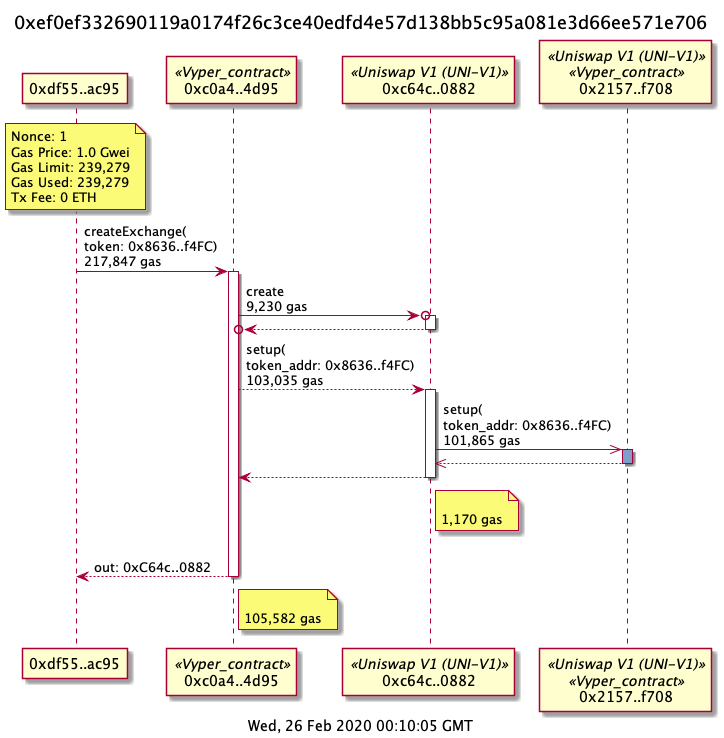
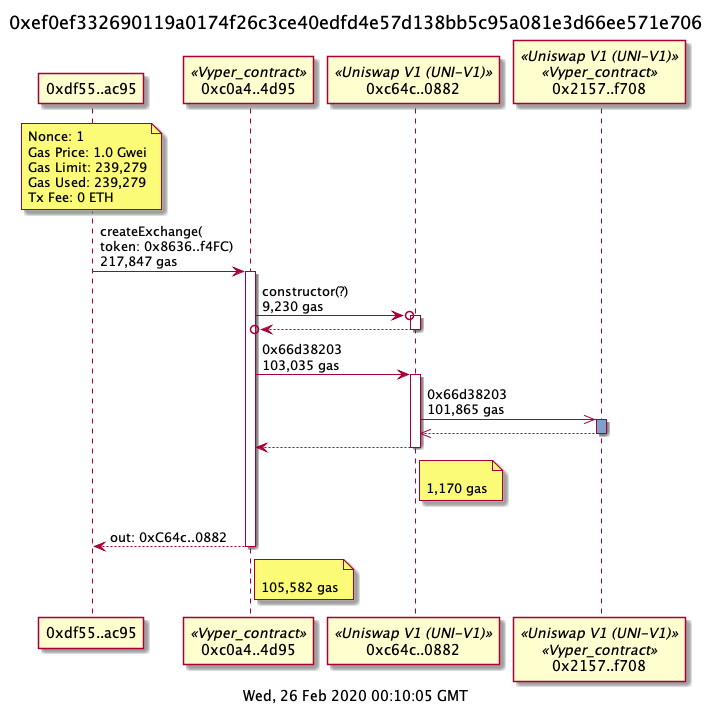
added parsing of constructor parameters

Changed region(s): [[0.0, 0.0, 1.0, 0.9944]]

diff --git a/lib/transaction.js b/lib/transaction.js
@@ -101,14 +101,19 @@ class TransactionManager {
         const functionSelector2Contract = mapFunctionSelectors2Contracts(contracts);
         for (const trace of traces.flat()) {
             if (((_a = trace.inputs) === null || _a === void 0 ? void 0 : _a.length) >= 10) {
-                let contracts = functionSelector2Contract[trace.funcSelector];
-                if ((contracts === null || contracts === void 0 ? void 0 : contracts.length) > 0) {
+                if (trace.type === MessageType.Create) {
+                    trace.funcName = "constructor";
+                    addConstructorParamsToTrace(trace, contracts);
+                    return;
+                }
+                const selectedContracts = functionSelector2Contract[trace.funcSelector];
+                if ((selectedContracts === null || selectedContracts === void 0 ? void 0 : selectedContracts.length) > 0) {
                     // get the contract for the function selector that matches the to address
-                    let contract = contracts.find(contract => contract.address === trace.to);
+                    let contract = selectedContracts.find(contract => contract.address === trace.to);
                     // if the function is not on the `to` contract, then its a proxy contract
                     // so just use any contract if the function is on another contract
                     if (!contract) {
-                        contract = contracts[0];
+                        contract = selectedContracts[0];
                         trace.proxy = true;
                     }
                     try {
@@ -170,16 +175,43 @@ const addOutputParamsToTrace = (trace, txDescription) => {
     const functionFragments = txDescription.functionFragment.outputs;
     const outputParams = abi_1.defaultAbiCoder.decode(functionFragments, trace.outputs);
     // For each output, add to the trace output params
-    outputParams.forEach((output, i) => {
-        const components = addValuesToComponents(functionFragments[i], output);
+    outputParams.forEach((param, i) => {
+        const components = addValuesToComponents(functionFragments[i], param);
         trace.outputParams.push({
             name: functionFragments[i].name,
             type: functionFragments[i].type,
-            value: output,
+            value: param,
             components,
         });
     });
     debug(`Decoded ${trace.outputParams.length} output params for ${trace.funcName} with selector ${trace.funcSelector}`);
+};
+const addConstructorParamsToTrace = (trace, contracts) => {
+    var _a, _b, _c, _d, _e, _f;
+    // Do we have the ABI for the deployed contract?
+    const constructor = (_c = (_b = (_a = contracts[trace.to]) === null || _a === void 0 ? void 0 : _a.ethersContract) === null || _b === void 0 ? void 0 : _b.interface) === null || _c === void 0 ? void 0 : _c.deploy;
+    if (!(constructor === null || constructor === void 0 ? void 0 : constructor.inputs)) {
+        // No ABI so we don't know the constructor params which comes from verified contracts on Etherscan
+        return;
+    }
+    // we need this flag to determine if there was no constructor params or they are unknown
+    trace.parsedConstructorParams = true;
+    // if we don't have the ABI then we won't have the constructorInputs but we'll double check anyway
+    if (!((_e = (_d = contracts[trace.to]) === null || _d === void 0 ? void 0 : _d.constructorInputs) === null || _e === void 0 ? void 0 : _e.length)) {
+        return;
+    }
+    const constructorParams = abi_1.defaultAbiCoder.decode(constructor.inputs, "0x" + ((_f = contracts[trace.to]) === null || _f === void 0 ? void 0 : _f.constructorInputs));
+    // For each constructor param, add to the trace input params
+    constructorParams.forEach((param, i) => {
+        const components = addValuesToComponents(constructor.inputs[i], param);
+        trace.inputParams.push({
+            name: constructor.inputs[i].name,
+            type: constructor.inputs[i].type,
+            value: param,
+            components,
+        });
+    });
+    debug(`Decoded ${trace.inputParams.length} constructor params.`);
 };
 // if function components exists, recursively add arg values to the function components
 const addValuesToComponents = (paramType, args) => {

diff --git a/src/ts/transaction.ts b/src/ts/transaction.ts
@@ -39,6 +39,7 @@ export type Trace = {
     funcName?: string
     inputs?: string
     inputParams?: Param[]
+    parsedConstructorParams?: boolean
     outputs?: string
     outputParams?: Param[]
     proxy?: boolean
@@ -59,6 +60,7 @@ export type Contract = {
     decimals?: number
     proxyImplementation?: string
     ethersContract?: EthersContract
+    constructorInputs?: string
 }
 
 export type TokenDetails = {
@@ -211,16 +213,22 @@ export class TransactionManager {
         )
         for (const trace of traces.flat()) {
             if (trace.inputs?.length >= 10) {
-                let contracts = functionSelector2Contract[trace.funcSelector]
-                if (contracts?.length > 0) {
+                if (trace.type === MessageType.Create) {
+                    trace.funcName = "constructor"
+                    addConstructorParamsToTrace(trace, contracts)
+                    return
+                }
+                const selectedContracts =
+                    functionSelector2Contract[trace.funcSelector]
+                if (selectedContracts?.length > 0) {
                     // get the contract for the function selector that matches the to address
-                    let contract = contracts.find(
+                    let contract = selectedContracts.find(
                         contract => contract.address === trace.to
                     )
                     // if the function is not on the `to` contract, then its a proxy contract
                     // so just use any contract if the function is on another contract
                     if (!contract) {
-                        contract = contracts[0]
+                        contract = selectedContracts[0]
                         trace.proxy = true
                     }
                     try {
@@ -310,19 +318,51 @@ const addOutputParamsToTrace = (
         trace.outputs
     )
     // For each output, add to the trace output params
-    outputParams.forEach((output, i) => {
-        const components = addValuesToComponents(functionFragments[i], output)
+    outputParams.forEach((param, i) => {
+        const components = addValuesToComponents(functionFragments[i], param)
 
         trace.outputParams.push({
             name: functionFragments[i].name,
             type: functionFragments[i].type,
-            value: output,
+            value: param,
             components,
         })
     })
     debug(
         `Decoded ${trace.outputParams.length} output params for ${trace.funcName} with selector ${trace.funcSelector}`
     )
+}
+
+const addConstructorParamsToTrace = (trace: Trace, contracts: Contracts) => {
+    // Do we have the ABI for the deployed contract?
+    const constructor = contracts[trace.to]?.ethersContract?.interface?.deploy
+    if (!constructor?.inputs) {
+        // No ABI so we don't know the constructor params which comes from verified contracts on Etherscan
+        return
+    }
+    // we need this flag to determine if there was no constructor params or they are unknown
+    trace.parsedConstructorParams = true
+
+    // if we don't have the ABI then we won't have the constructorInputs but we'll double check anyway
+    if (!contracts[trace.to]?.constructorInputs?.length) {
+        return
+    }
+    const constructorParams = defaultAbiCoder.decode(
+        constructor.inputs,
+        "0x" + contracts[trace.to]?.constructorInputs
+    )
+    // For each constructor param, add to the trace input params
+    constructorParams.forEach((param, i) => {
+        const components = addValuesToComponents(constructor.inputs[i], param)
+
+        trace.inputParams.push({
+            name: constructor.inputs[i].name,
+            type: constructor.inputs[i].type,
+            value: param,
+            components,
+        })
+    })
+    debug(`Decoded ${trace.inputParams.length} constructor params.`)
 }
 
 // if function components exists, recursively add arg values to the function components

diff --git a/lib/tx2uml.js b/lib/tx2uml.js
@@ -25,7 +25,7 @@ The transaction hashes have to be in hexadecimal format with a 0x prefix. If run
     .option("-f, --outputFormat <value>", "output file format: png, svg or puml", "png")
     .option("-o, --outputFileName <value>", "output file name. Defaults to the transaction hash.")
     .option("-u, --url <url>", "URL of the archive node with trace transaction support. Can also be set with the ARCHIVE_NODE_ENV environment variable. (default: http://localhost:8545)")
-    .option("-n, --nodeType <value>", "geth (GoEthereum), tgeth (Turbo-Geth), openeth (OpenEthereum, previously Parity), nether (Nethermind), besu (Hyperledger Besu).", "geth")
+    .option("-n, --nodeType <value>", "geth (GoEthereum), tgeth (Turbo-Geth), openeth (OpenEthereum, previously Parity), nether (Nethermind), besu (Hyperledger Besu). Can also be set with the ARCHIVE_NODE_TYPE env var.", "geth")
     .option("-p, --noParams", "Hide function params and return values.", false)
     .option("-g, --noGas", "Hide gas usages.", false)
     .option("-e, --noEther", "Hide ether values.", false)
@@ -42,17 +42,22 @@ const tx2uml = async () => {
     const url = program.url || process.env.ARCHIVE_NODE_URL || "http://localhost:8545";
     const nodeType = program.nodeType || process.env.ARCHIVE_NODE_TYPE || "geth";
     if (!nodeTypes.includes(nodeType)) {
-        throw new Error(`Invalid node type "${nodeType}" set by the ARCHIVE_NODE_TYPE env var or --nodeType option. Must be one of: ${nodeTypes}`);
+        console.error(`Invalid node type "${nodeType}" set by the ARCHIVE_NODE_TYPE env var or --nodeType option. Must be one of: ${nodeTypes}`);
+        process.exit(1);
     }
     const tracingClient = (() => {
         switch (nodeType) {
             case "openeth":
+                debug("Using OpenEthereum client.");
                 return new OpenEthereumClient_1.default(url);
             case "nether":
+                debug("Using Nethermind client.");
                 return new OpenEthereumClient_1.default(url);
             case "besu":
-                throw Error("Hyperledger Besu nodes are not currently supported");
+                console.error("Hyperledger Besu nodes are not currently supported");
+                process.exit(2);
             default:
+                debug("Using Geth client.");
                 return new GethClient_1.default(url);
         }
     })();

diff --git a/src/ts/tx2uml.ts b/src/ts/tx2uml.ts
@@ -39,7 +39,7 @@ The transaction hashes have to be in hexadecimal format with a 0x prefix. If run
     )
     .option(
         "-n, --nodeType <value>",
-        "geth (GoEthereum), tgeth (Turbo-Geth), openeth (OpenEthereum, previously Parity), nether (Nethermind), besu (Hyperledger Besu).",
+        "geth (GoEthereum), tgeth (Turbo-Geth), openeth (OpenEthereum, previously Parity), nether (Nethermind), besu (Hyperledger Besu). Can also be set with the ARCHIVE_NODE_TYPE env var.",
         "geth"
     )
     .option("-p, --noParams", "Hide function params and return values.", false)
@@ -67,22 +67,27 @@ const tx2uml = async () => {
     const nodeType: NodeType =
         program.nodeType || process.env.ARCHIVE_NODE_TYPE || "geth"
     if (!nodeTypes.includes(nodeType)) {
-        throw new Error(
+        console.error(
             `Invalid node type "${nodeType}" set by the ARCHIVE_NODE_TYPE env var or --nodeType option. Must be one of: ${nodeTypes}`
         )
+        process.exit(1)
     }
 
     const tracingClient = ((): ITracingClient => {
         switch (nodeType) {
             case "openeth":
+                debug("Using OpenEthereum client.")
                 return new OpenEthereumClient(url)
             case "nether":
+                debug("Using Nethermind client.")
                 return new OpenEthereumClient(url)
             case "besu":
-                throw Error(
+                console.error(
                     "Hyperledger Besu nodes are not currently supported"
                 )
+                process.exit(2)
             default:
+                debug("Using Geth client.")
                 return new GethClient(url)
         }
     })()

diff --git a/src/ts/plantUmlStreamer.ts b/src/ts/plantUmlStreamer.ts
@@ -288,8 +288,18 @@ const genArrow = (trace: Trace): string => {
 const genFunctionText = (trace: Trace, noParams: boolean = false): string => {
     if (!trace) {
         return ""
-    } else if (trace.type === MessageType.Create) {
-        return "create"
+    }
+    if (trace.type === MessageType.Create) {
+        if (noParams) {
+            return "constructor"
+        }
+        // If we have the contract ABI so the constructor params could be parsed
+        if (trace.parsedConstructorParams) {
+            return `${trace.funcName}(${genParams(trace.inputParams)})`
+        }
+        // we don't know if there was constructor params or not as the contract was not verified on Etherscan
+        // hence we don't have the constructor params or the contract ABI to parse them.
+        return "constructor(?)"
     }
     if (!trace.funcSelector) {
         return noParams ? "fallback" : "fallback()"

diff --git a/lib/plantUmlStreamer.js b/lib/plantUmlStreamer.js
@@ -185,8 +185,17 @@ const genFunctionText = (trace, noParams = false) => {
     if (!trace) {
         return "";
     }
-    else if (trace.type === transaction_1.MessageType.Create) {
-        return "create";
+    if (trace.type === transaction_1.MessageType.Create) {
+        if (noParams) {
+            return "constructor";
+        }
+        // If we have the contract ABI so the constructor params could be parsed
+        if (trace.parsedConstructorParams) {
+            return `${trace.funcName}(${exports.genParams(trace.inputParams)})`;
+        }
+        // we don't know if there was constructor params or not as the contract was not verified on Etherscan
+        // hence we don't have the constructor params or the contract ABI to parse them.
+        return "constructor(?)";
     }
     if (!trace.funcSelector) {
         return noParams ? "fallback" : "fallback()";

diff --git a/lib/transaction.d.ts b/lib/transaction.d.ts
@@ -27,6 +27,7 @@ export declare type Trace = {
     funcName?: string;
     inputs?: string;
     inputParams?: Param[];
+    parsedConstructorParams?: boolean;
     outputs?: string;
     outputParams?: Param[];
     proxy?: boolean;
@@ -46,6 +47,7 @@ export declare type Contract = {
     decimals?: number;
     proxyImplementation?: string;
     ethersContract?: EthersContract;
+    constructorInputs?: string;
 };
 export declare type TokenDetails = {
     address: string;

diff --git a/src/ts/clients/EtherscanClient.ts b/src/ts/clients/EtherscanClient.ts
@@ -67,6 +67,7 @@ export default class EtherscanClient {
                 address: contractAddress,
                 contractName: response.data.result[0].ContractName,
                 ethersContract,
+                constructorInputs: response.data.result[0].ConstructorArguments,
             }
         } catch (err) {
             throw new VError(

diff --git a/lib/clients/EtherscanClient.js b/lib/clients/EtherscanClient.js
@@ -50,6 +50,7 @@ class EtherscanClient {
                 address: contractAddress,
                 contractName: response.data.result[0].ContractName,
                 ethersContract,
+                constructorInputs: response.data.result[0].ConstructorArguments,
             };
         }
         catch (err) {

diff --git a/README.md b/README.md
@@ -56,7 +56,7 @@ Options:
   -f, --outputFormat <value>    output file format: png, svg or puml (default: "png")
   -o, --outputFileName <value>  output file name. Defaults to the transaction hash.
   -u, --url <url>               URL of the archive node with trace transaction support. Can also be set with the ARCHIVE_NODE_ENV environment variable. (default: http://localhost:8545)
-  -n, --nodeType <value>        geth (GoEthereum), tgeth (Turbo-Geth), openeth (OpenEthereum, previously Parity), nether (Nethermind), besu (Hyperledger Besu). (default: "geth")
+  -n, --nodeType <value>        geth (GoEthereum), tgeth (Turbo-Geth), openeth (OpenEthereum, previously Parity), nether (Nethermind), besu (Hyperledger Besu). Can also be set with the ARCHIVE_NODE_TYPE env var. (default: "geth")
   -p, --noParams                Hide function params and return values (default: false)
   -g, --noGas                   Hide gas usages (default: false)
   -e, --noEther                 Hide ether values (default: false)
@@ -204,8 +204,11 @@ npm test, build and publish commands
 ```bash
 npm run test
 npm run prettier:fix
+npm run clean
 npm run build
-# make tx2uml globally available
+# make tx2uml globally available for local testing
 npm link
+# check all the files are included in the npm package
+npm pack --dry-run
 npm publish
 ```

diff --git a/examples/README.md b/examples/README.md
@@ -41,11 +41,23 @@ tx2uml 0xe5e35ee13bb6326df4da89f17504a81923299d4986de06a019ca7856cbe76bca
 
 This [Uniswap](https://uniswap.exchange/) transaction creates a new market by creating a new exchange contract. The contract create message is the second message with the circle at the end of the array.
 
+If the contract has not been verified on Etherscan, the constructor params will be `?` as tx2uml will not know what the constructor params were.
+
 ```
[1 lines of base64/hex data omitted]
+tx2uml 0xef0ef332690119a0174f26c3ce40edfd4e57d138bb5c95a081e3d66ee571e706
 ```
 
 ![Uniswap Factory](./uniswapFactory.png)
+
+## Deploy STRAX contract
+
+The constructor parameters will be parsed if the contract has been verified on Etherscan.
+
+```
+tx2uml 0x22bd02c8d934627a4b79e7fd66dba69492ddf1bbb7a86dd74fdaf7bb32f8ea24
+```
+
+![deployContract](./deployContract.png)
 
 ## Unknown function names
 
